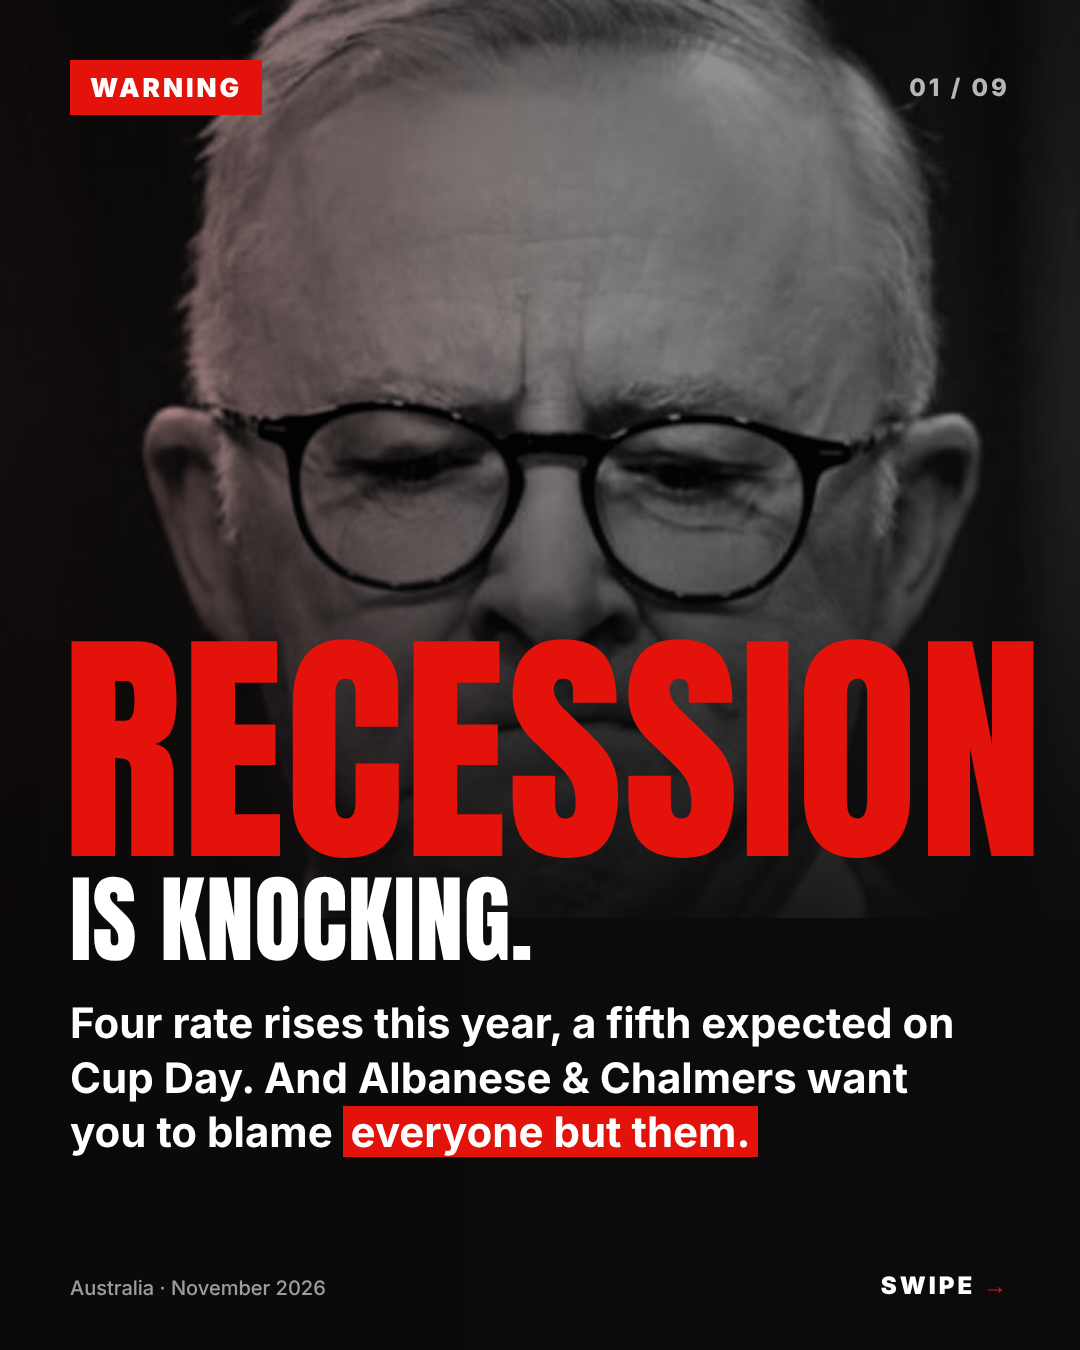
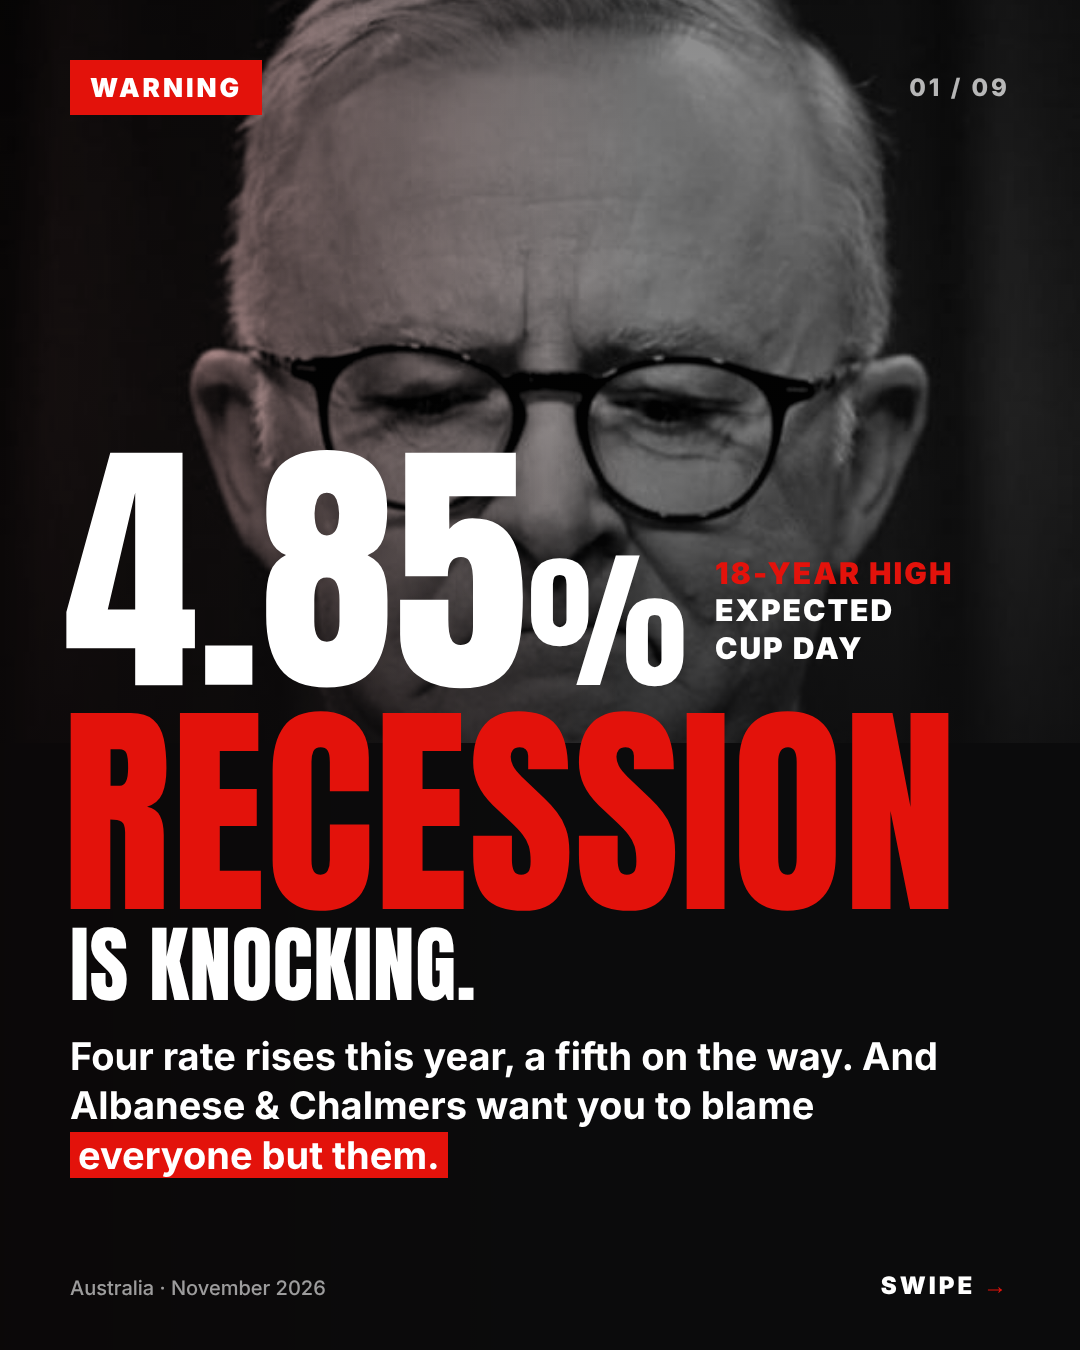
Carousel cover: lead with 4.85% cash rate
Claude-Session: https://claude.ai/code/session_01Sgrt9WYzDMe4NEGsjjdCZv

diff --git a/carousel/carousel.html b/carousel/carousel.html
@@ -34,14 +34,18 @@ body{background:#222;font-family:Inter,sans-serif;display:flex;flex-direction:co
 
 <!-- 1 COVER -->
 <section class="slide" id="s1">
-  <div class="photo" style="background-image:url(img/frown.jpg);background-position:center 20%;bottom:auto;height:68%"></div>
+  <div class="photo" style="background-image:url(img/frown.jpg);background-position:center 15%;bottom:auto;height:55%"></div>
   <div class="shade" style="background:linear-gradient(180deg,rgba(11,11,12,.35) 0%,rgba(11,11,12,.15) 30%,rgba(11,11,12,.85) 62%,#0B0B0C 80%)"></div>
   <div class="shade" style="background:linear-gradient(90deg,rgba(227,18,11,.35),transparent 60%);mix-blend-mode:multiply"></div>
   <div class="top"><span class="tag">Warning</span><span class="count">01 / 09</span></div>
-  <div class="body" style="bottom:190px">
-    <div class="anton" style="font-size:250px;color:var(--red);margin-left:-8px">Recession</div>
-    <div class="anton" style="font-size:96px;margin-top:18px">is knocking.</div>
-    <div class="p" style="margin-top:34px;font-size:42px;max-width:900px">Four rate rises this year, a fifth expected on Cup Day. And Albanese &amp; Chalmers want you to blame <em>everyone but them.</em></div>
+  <div class="body" style="bottom:170px">
+    <div style="display:flex;align-items:flex-end;gap:28px">
+      <div class="anton" style="font-size:270px;color:#fff;margin-left:-6px">4.85<span style="font-size:150px">%</span></div>
+      <div style="font-weight:900;font-size:30px;line-height:1.25;letter-spacing:2px;text-transform:uppercase;padding-bottom:22px"><span style="color:var(--red)">18-year high</span><br>Expected<br>Cup Day</div>
+    </div>
+    <div class="anton" style="font-size:228px;color:var(--red);margin-left:-8px;margin-top:24px">Recession</div>
+    <div class="anton" style="font-size:84px;margin-top:14px">is knocking.</div>
+    <div class="p" style="margin-top:30px;font-size:38px;max-width:920px">Four rate rises this year, a fifth on the way. And Albanese &amp; Chalmers want you to blame <em>everyone but them.</em></div>
   </div>
   <div class="foot"><span>Australia · November 2026</span><span class="swipe">SWIPE <b>→</b></span></div>
 </section>
